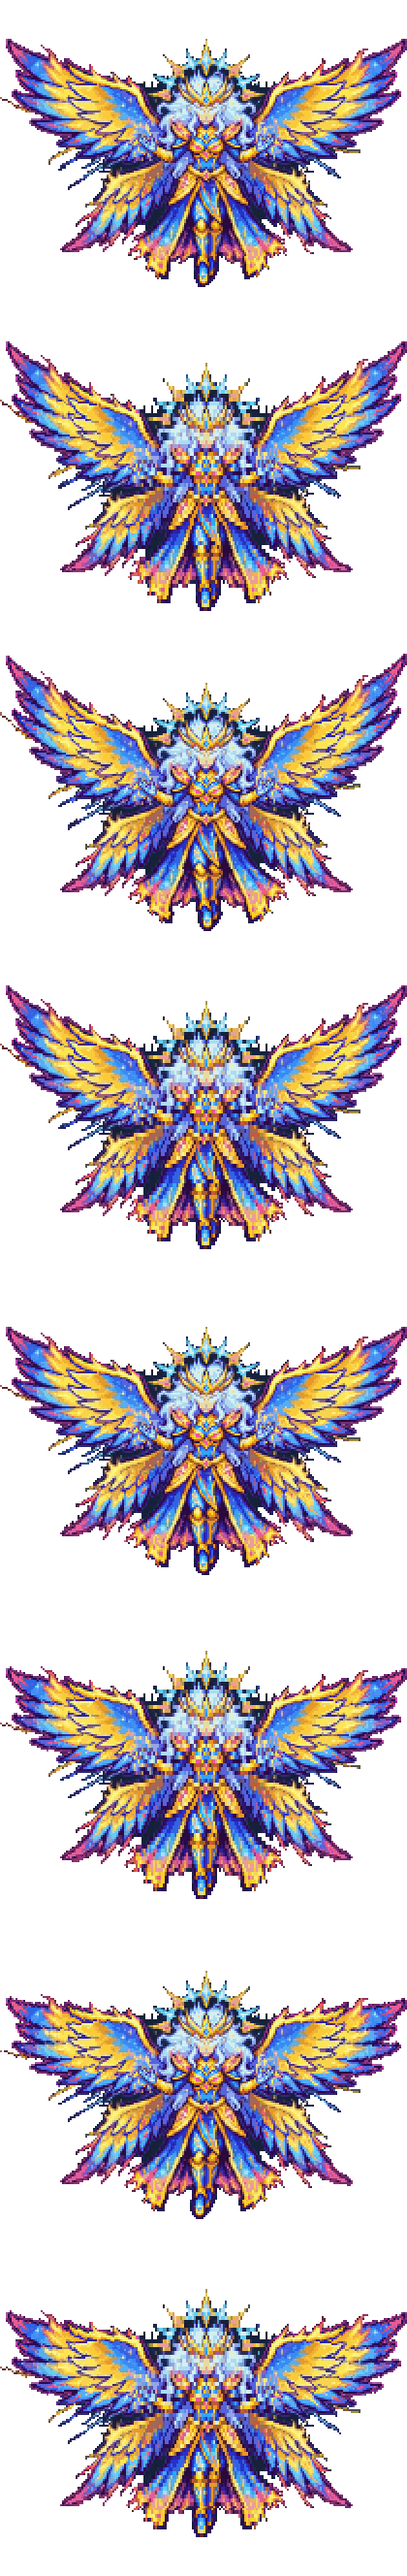
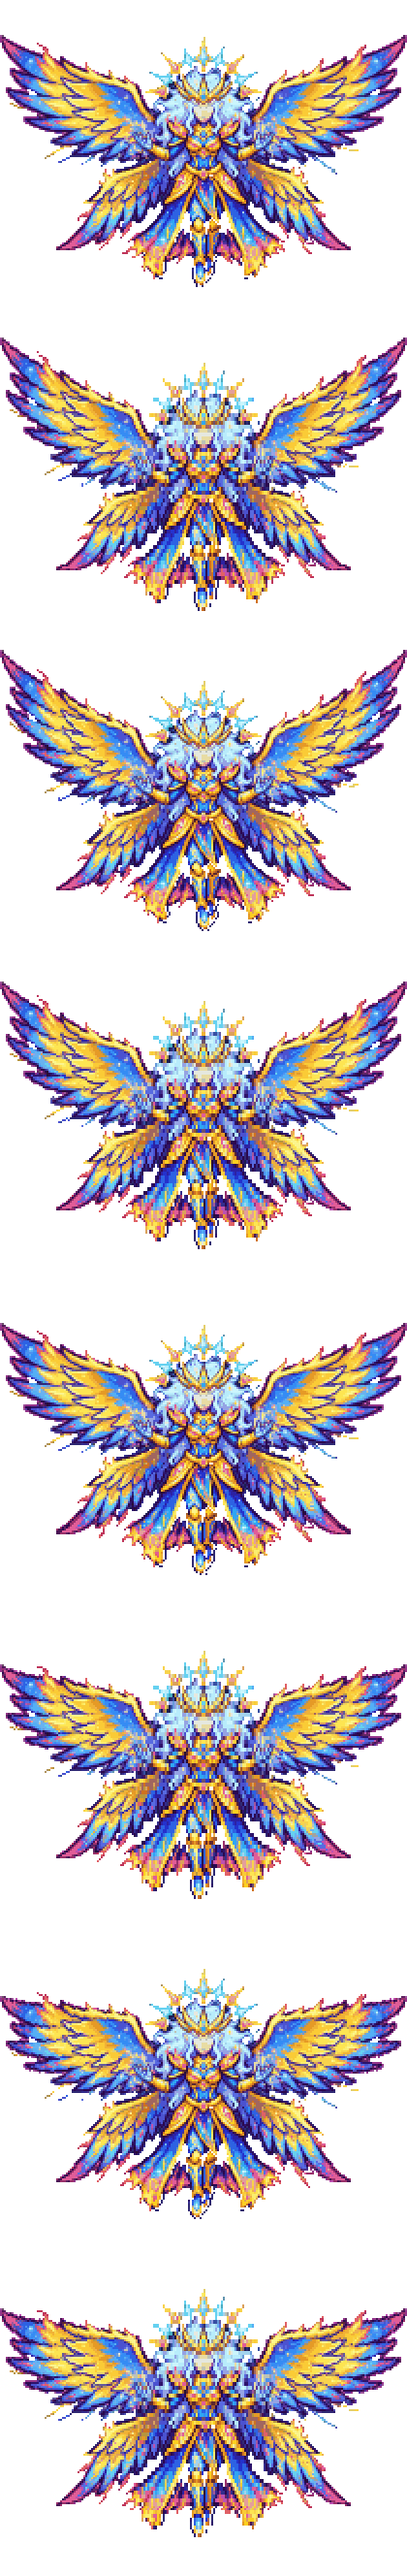
Stage 2 sprite: sharper single resize, clear pockets; spear swarm uses the Starlight Lance in stage 2

diff --git a/tools/make_boss_stage2_sheet.py b/tools/make_boss_stage2_sheet.py
@@ -21,13 +21,20 @@ import make_boss_sheet as mb   # noqa: E402  (reuses the stage 1 helpers and the
 
 SRC = "DesignRefs/boss_stage2_design.jpg"
 OUT = "NPCs/Bosses/MotherOfTerrariaBoss_Stage2.png"
-WORK_W = 400                    # the cut is found at this width, then fitted into the stage 1 picture size
+WORK_W = 1000                   # the background is found at this width; the picture itself is shrunk once, straight from the original
+POCKET_MIN = 30                 # an enclosed dark area at least this big (working pixels) is background (a gap between feathers), not shadow
+FRINGE_MAX = 85                 # dark pixels touching the background and darker than this are the soft edge of the background
+HAZE_MAX = 100                  # fairly dark navy haze (not only the plain background) can be background if it forms a thick blob
+HAZE_SHAVE = 3                  # pixels shaved off all round to tell thick blobs from thin outlines
+HAZE_MIN = 25                   # a blob this big (working pixels) after shaving counts
+MIN_PIECE = 300                 # loose pieces smaller than this (sparkles, streaks) are dropped
 FIT_W, FIT_H = 210, 130         # the stage 1 picture size in art pixels (frame 420x332 = (210x(130+2*PAD)) x 2)
-COLOURS = 60
+COLOURS = 64
 LANCE_LENGTH = 104
 
 
 def cut_boss():
+    # 1. Find what is background at a medium size (fast), blanking out the side items first.
     scale = WORK_W / 2752.0
     H = int(round(1536 * scale))
     args = [SRC, "-fill", "#0b111f",
@@ -36,35 +43,80 @@ def cut_boss():
             "-draw", "rectangle 2300,600 2752,1536",     # lance and barrage (bottom right)
             "-filter", "Box", "-resize", f"{WORK_W}x{H}!"]
     rgb = mb.run_rgb(args, WORK_W, H)
-    dark = rgb.max(axis=2) < mb.BG_MAX
-    bg = np.zeros_like(dark)
-    stack = [(y, x) for y in range(H) for x in (0, WORK_W - 1)] + [(y, x) for x in range(WORK_W) for y in (0, H - 1)]
-    while stack:
-        y, x = stack.pop()
-        if 0 <= y < H and 0 <= x < WORK_W and dark[y, x] and not bg[y, x]:
-            bg[y, x] = True
-            stack += [(y + 1, x), (y - 1, x), (y, x + 1), (y, x - 1)]
+    bright = rgb.max(axis=2)
+    dark = bright < mb.BG_MAX
+    # Background = dark areas touching the picture's border, AND the big enclosed dark pockets (the gaps between feathers and flames
+    # that the border fill cannot reach; they were the black spots). Small dark areas inside the boss (shadows, eyes) stay.
+    labels, n = mb.components(dark)
+    sizes = np.bincount(labels.ravel(), minlength=n + 1)
+    border = np.unique(np.concatenate([labels[0], labels[-1], labels[:, 0], labels[:, -1]]))
+    is_bg = np.zeros(n + 1, dtype=bool)
+    is_bg[border] = True
+    is_bg |= sizes >= POCKET_MIN
+    is_bg[0] = False
+    bg = is_bg[labels]
+    # a thin dark fringe left by the picture's soft edges: dark pixels right next to background are background too
+    near = np.zeros_like(bg)
+    near[1:] |= bg[:-1]
+    near[:-1] |= bg[1:]
+    near[:, 1:] |= bg[:, :-1]
+    near[:, :-1] |= bg[:, 1:]
+    bg |= near & (bright < FRINGE_MAX)
+    # Dark navy haze that is a little brighter than the plain background (behind the halo and hair) is background too, but the boss's own
+    # dark outlines are not: outlines are thin, the haze is a thick blob. So take the fairly dark pixels, shave off 3 pixels all round
+    # (thin outlines vanish, thick blobs survive), keep the blobs of real size, and grow them back to their old edge.
+    hazy = bright < HAZE_MAX
+    core = hazy.copy()
+    for _ in range(HAZE_SHAVE):
+        shaved = core.copy()
+        shaved[1:] &= core[:-1]
+        shaved[:-1] &= core[1:]
+        shaved[:, 1:] &= core[:, :-1]
+        shaved[:, :-1] &= core[:, 1:]
+        core = shaved
+    labels, n = mb.components(core)
+    sizes = np.bincount(labels.ravel(), minlength=n + 1)
+    big = np.zeros(n + 1, dtype=bool)
+    big[1:] = sizes[1:] >= HAZE_MIN
+    core = big[labels]
+    for _ in range(HAZE_SHAVE + 1):
+        grown = core.copy()
+        grown[1:] |= core[:-1]
+        grown[:-1] |= core[1:]
+        grown[:, 1:] |= core[:, :-1]
+        grown[:, :-1] |= core[:, 1:]
+        core = grown & hazy
+    bg |= core
     solid = ~bg
+    # drop loose sparkles and streaks, keep the boss
     labels, n = mb.components(solid)
     sizes = np.bincount(labels.ravel(), minlength=n + 1)
     keep = np.zeros(n + 1, dtype=bool)
-    keep[1:] = sizes[1:] >= 60       # drop sparkles and loose streaks, keep the boss
+    keep[1:] = sizes[1:] >= MIN_PIECE
     solid = keep[labels]
     ys, xs = np.nonzero(solid)
     y0, y1, x0, x1 = ys.min(), ys.max() + 1, xs.min(), xs.max() + 1
-    print(f"cut found at {WORK_W}px wide: {x1 - x0}x{y1 - y0} (aspect {(x1 - x0) / (y1 - y0):.2f}; stage 1 is {FIT_W / FIT_H:.2f})")
-    rgba = np.zeros((y1 - y0, x1 - x0, 4), dtype=np.uint8)
-    rgba[..., :3] = rgb[y0:y1, x0:x1]
-    rgba[..., 3] = np.where(solid[y0:y1, x0:x1], 255, 0)
+    print(f"cut found: {x1 - x0}x{y1 - y0} at {WORK_W}px wide (aspect {(x1 - x0) / (y1 - y0):.2f}; stage 1 is {FIT_W / FIT_H:.2f})")
+
+    # 2. Use that mask on the ORIGINAL picture and shrink it ONCE (a single box filter, so the pixels stay sharp).
+    full = mb.run_rgb([SRC], 2752, 1536)
+    xi = np.minimum(np.arange(2752) * WORK_W // 2752, WORK_W - 1)
+    yi = np.minimum(np.arange(1536) * H // 1536, H - 1)
+    full_mask = solid[np.ix_(yi, xi)]
+    f = 2752.0 / WORK_W
+    cx0, cy0, cx1, cy1 = int(x0 * f), int(y0 * f), min(2752, int(x1 * f) + 1), min(1536, int(y1 * f) + 1)
+    rgba = np.zeros((cy1 - cy0, cx1 - cx0, 4), dtype=np.uint8)
+    rgba[..., :3] = full[cy0:cy1, cx0:cx1]
+    rgba[..., 3] = np.where(full_mask[cy0:cy1, cx0:cx1], 255, 0)
     mb.write_rgba(rgba, "/tmp/boss2_cut.png")
-    # fit into FIT_W x FIT_H (keeping the proportions, centred, feet on the bottom) with a box filter, then a small palette
     subprocess.check_call(["magick", "/tmp/boss2_cut.png", "-filter", "Box", "-resize", f"{FIT_W}x{FIT_H}",
                            "-background", "none", "-gravity", "south", "-extent", f"{FIT_W}x{FIT_H}", "/tmp/boss2_fit.png"])
     fit = mb.read_rgba("/tmp/boss2_fit.png")
     alpha = fit[..., 3].copy()
+    # 3. A small palette (Terraria look), no dithering; the edge is cut hard (opaque or clear).
     subprocess.check_call(["magick", "/tmp/boss2_fit.png", "-alpha", "off", "-colors", str(COLOURS), "+dither", "/tmp/boss2_q.png"])
     q = mb.read_rgba("/tmp/boss2_q.png")
-    q[..., 3] = np.where(alpha > 100, 255, 0)
+    q[..., 3] = np.where(alpha > 128, 255, 0)
     return q
 
 

diff --git a/NPCs/Bosses/MotherOfTerrariaBoss.cs b/NPCs/Bosses/MotherOfTerrariaBoss.cs
@@ -399,7 +399,14 @@ namespace MotherOfTerraria.NPCs.Bosses
 					float start = Timer == BurstTell ? (target.Center - NPC.Center).ToRotation() : (target.Center - NPC.Center).ToRotation() + step / 2f;
 					for (int i = 0; i < RingSpears; i++)
 					{
-						ThrowSpear((start + i * step).ToRotationVector2() * RingSpearSpeed);
+						if (Stage == 2)
+						{
+							ThrowSpear((start + i * step).ToRotationVector2() * RingSpearSpeed, ModContent.ProjectileType<StarlightLance>()); // stage 2: the swarm uses the lance look (same damage as before)
+						}
+						else
+						{
+							ThrowSpear((start + i * step).ToRotationVector2() * RingSpearSpeed);
+						}
 					}
 				}
 			}

diff --git a/PROGRESS.md b/PROGRESS.md
@@ -345,6 +345,11 @@ Owner sent the stage 2 design (DesignRefs/boss_stage2_design.jpg: the "enraged" 
 ### Starlight Lance damage 300 -> 200 (2026-10-25, owner: "300 is extreme")
 - StarlightDamage is now 200 base (the stage 1 spears are 150, so a third more). The entry above that says 300 and "twice as hard" is history.
 
+### Stage 2 sprite fixed (blurry, black spots) and the spear swarm uses the lance (2026-10-25, owner; BUILT, NOT YET TESTED)
+- BLURRY: the first stage 2 sheet was shrunk twice (original -> 400 px -> final), which blurred it. Now the picture is shrunk ONCE, straight from the original to the final size with a box filter (tools/make_boss_stage2_sheet.py), then reduced to a 64-colour palette with a hard edge, like stage 1.
+- BLACK SPOTS in the gaps between feathers, flames, halo and hair: the old cut only removed background connected to the picture's edge, so enclosed pockets stayed (plain dark pockets, and a darker navy haze behind the halo and hair). Now the mask removes (1) dark areas touching the border, (2) every enclosed dark pocket of real size (POCKET_MIN 30), (3) dark navy haze that forms a thick blob, found by shaving 3 pixels off the dark areas so thin outlines vanish and thick blobs stay (HAZE_MAX 100, HAZE_SHAVE 3, HAZE_MIN 25), and (4) a thin dark fringe next to the background (FRINGE_MAX 85). Checked on a light backdrop: the gaps are clear. A few stray dark pixels remain in the hair; if they bother the owner, the haze numbers are the ones to tune.
+- SPEAR SWARM: the Spear Burst (the two rings of spears) still threw the old Celestial Spear in stage 2. Now in stage 2 it throws Starlight Lances too, at the SAME damage as before (150), so only the look changed. The fan stays at 200.
+
 ## Not yet tested in-game (consolidated 2026-10-24; the per-change test notes are in the dated sections above)
 The owner tested and approved: the summon sequence and everything older, the dashes, her size (the second shrink was good, a later 25% shrink needs a look), the Celestial Spear, the feather, the wing and halo ideas as designs, the star marks, the boss bar (works after [AutoloadBossHead]).
 STILL TO CHECK IN-GAME:
